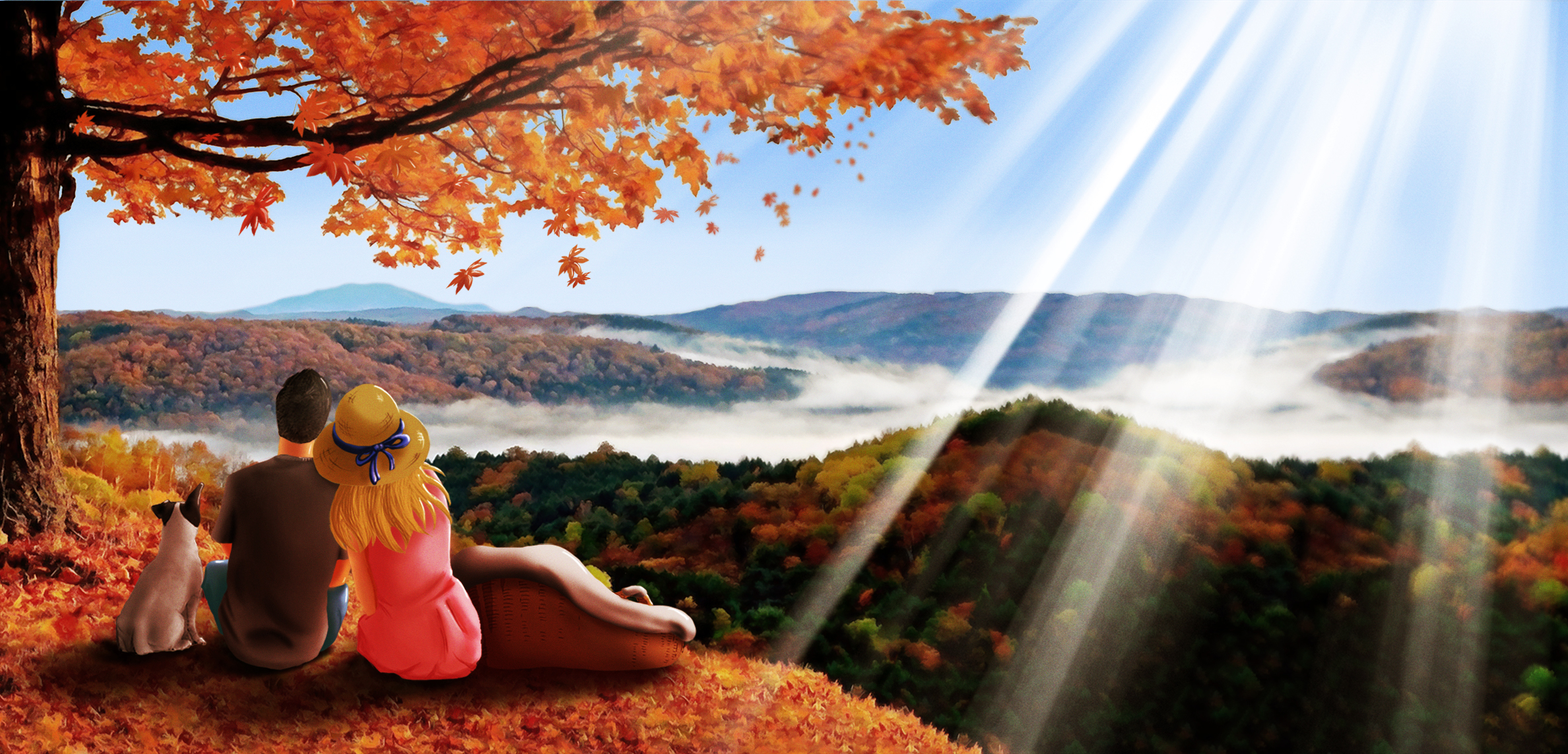
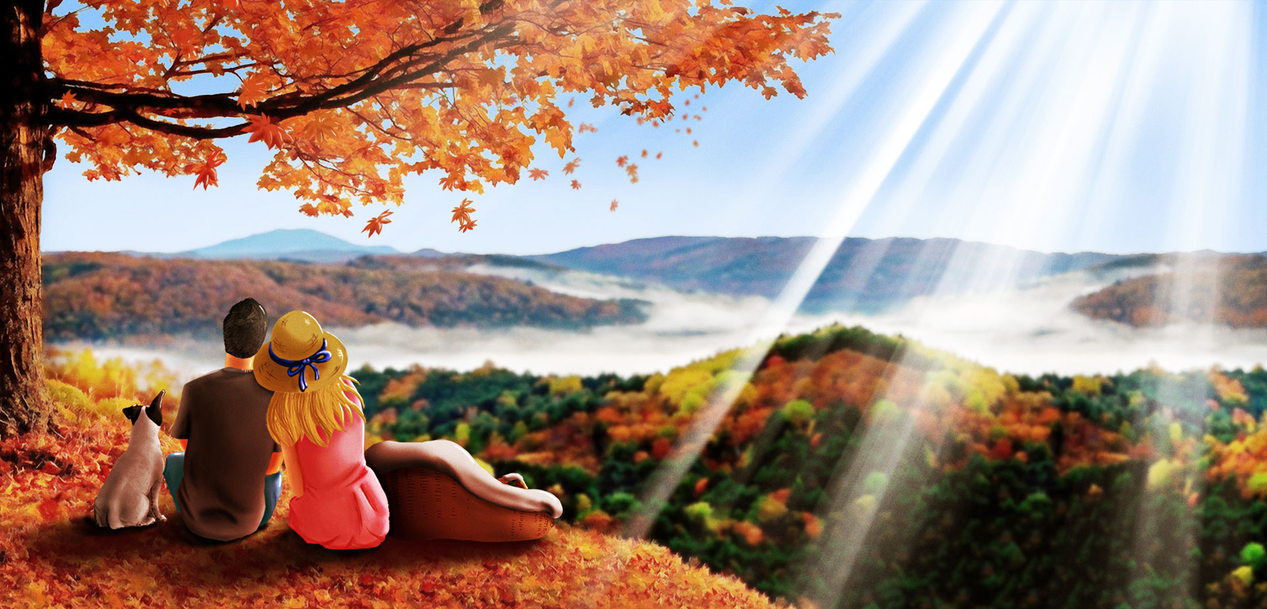
Update images

diff --git a/content/digital_art/bienvenue_camille.md b/content/digital_art/bienvenue_camille.md
@@ -1,9 +1,9 @@
 ---
-title: "Our little girl's birth announcement card"
+title: "Fall 2020 ❤"
 date: 2020-08-01
 draft: false
 ---
 
 ![image1](bienvenue_camille-001.jpg)
 
-Personal project.
+Illustration for our little girl's birth announcement card.

diff --git a/content/digital_art/mountains.md b/content/digital_art/mountains.md
@@ -6,4 +6,4 @@ draft: false
 
 ![image1](mountains-001.jpg)
 
-Personal project.
+Quick study.
